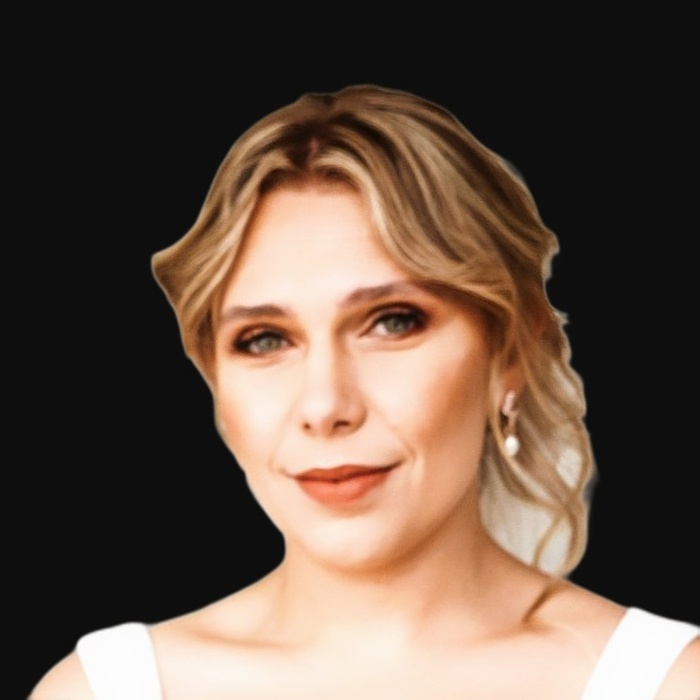
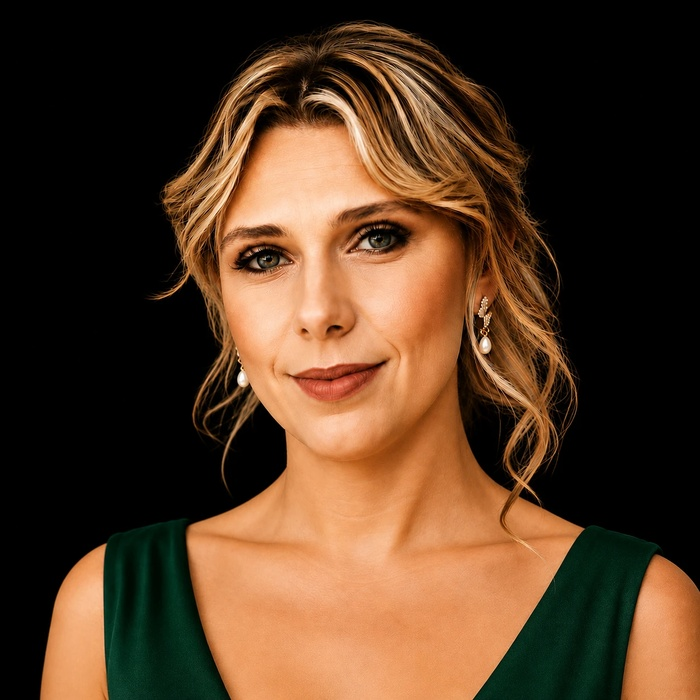
Swap Jessica's photo, add cache-busting to founder images
- New business-appropriate portrait for Jessica (green top, not the
  wedding dress) - already square/well-framed, no trim needed.
- Added ?v= query strings to both founder <img src>s so browsers stop
  serving stale cached photos from earlier swaps this session.

diff --git a/index.html b/index.html
@@ -848,7 +848,7 @@
       <!-- Brandon Le Roux -->
       <div class="founder-card">
         <div class="founder-visual founder-visual--photo">
-          <img class="founder-photo" src="/images/brandon-le-roux.jpg" alt="Brandon Le Roux" />
+          <img class="founder-photo" src="/images/brandon-le-roux.jpg?v=3" alt="Brandon Le Roux" />
         </div>
         <div class="founder-content">
           <p class="section-eyebrow">Leadership</p>
@@ -866,7 +866,7 @@
       <!-- Jessica Le Roux -->
       <div class="founder-card">
         <div class="founder-visual founder-visual--photo">
-          <img class="founder-photo" src="/images/jessica-le-roux.jpg" alt="Jessica Le Roux" />
+          <img class="founder-photo" src="/images/jessica-le-roux.jpg?v=3" alt="Jessica Le Roux" />
         </div>
         <div class="founder-content">
           <blockquote>

diff --git a/MEMORY.md b/MEMORY.md
@@ -6,6 +6,35 @@ time you finish a unit of work here.
 
 ---
 
+## 2026-08-04 (Jessica's photo swapped for a business-appropriate portrait) — same "do it too" as Brandon's, resolves the earlier wedding-dress tone concern
+
+User followed up with a new Jessica photo (dark green top, not the
+wedding dress used earlier) and asked to do the same treatment applied
+to Brandon's latest swap. Extracted from the transcript the same way
+(recursive scan for the newest `type: "image"` block, base64-decoded)
+— this one was already 1254x1254 WEBP, square and well-framed with
+minimal empty space, so no left-side trim was needed like Brandon's
+required. Converted to JPEG, resized to the standard 700x700, replaced
+`images/jessica-le-roux.jpg`, cache-busting bumped to `?v=3`. This also
+resolves the tonal concern flagged earlier in the session (wedding
+dress vs. professional bio photo) — the new photo reads as a proper
+business portrait.
+
+## 2026-08-04 (founder photo cache-busting added) — user reported the new photo "isn't populating"
+
+User reported Brandon's newly-swapped photo wasn't showing on the live
+site. Verified this wasn't a deploy/push problem first — diffed
+`origin/main`'s `images/brandon-le-roux.jpg` against the local file via
+md5sum, identical, confirming the correct file really is live at that
+URL. Root cause is browser/CDN caching: every photo swap this session
+reused the exact same filename (`brandon-le-roux.jpg`,
+`jessica-le-roux.jpg`), so a browser that already fetched an older
+version has no reason to re-request it — same URL, no cache-busting
+signal. Added `?v=3` / `?v=2` query strings to both `<img src>`s in
+`index.html` to force a fresh fetch. (The query string is arbitrary and
+ignored server-side for a static file; it only exists to change the
+URL the browser caches against.)
+
 ## 2026-08-04 (Brandon's photo: left-side empty space trimmed) — 700x700 square → 570x700 portrait
 
 The previous swap's square crop left a noticeable band of empty black

diff --git a/TODO.md b/TODO.md
@@ -3,6 +3,21 @@
 Living backlog. Check items off (or move to MEMORY.md as a dated entry) as they're
 done — don't just accumulate; keep this reflecting real, current state.
 
+## Fixed 2026-08-04 (Jessica's photo swapped for a business portrait)
+
+- [x] Replaced `jessica-le-roux.jpg` with a new business-appropriate
+      portrait (dark green top, not the wedding dress) — already
+      square/well-framed, no trim needed. Cache-busting bumped to
+      `?v=3`. See MEMORY.md.
+
+## Fixed 2026-08-04 (founder photo cache-busting added)
+
+- [x] Added `?v=3`/`?v=2` query strings to the founder `<img src>`s so
+      browsers stop serving the stale cached photo from before this
+      session's swaps. Confirmed via md5sum the correct file was
+      already live on `origin/main` — this was purely a caching
+      issue, not a deploy issue. See MEMORY.md.
+
 ## Fixed 2026-08-04 (Brandon's photo: left-side space trimmed)
 
 - [x] Trimmed 130px of empty black space off the left edge (700x700 →
